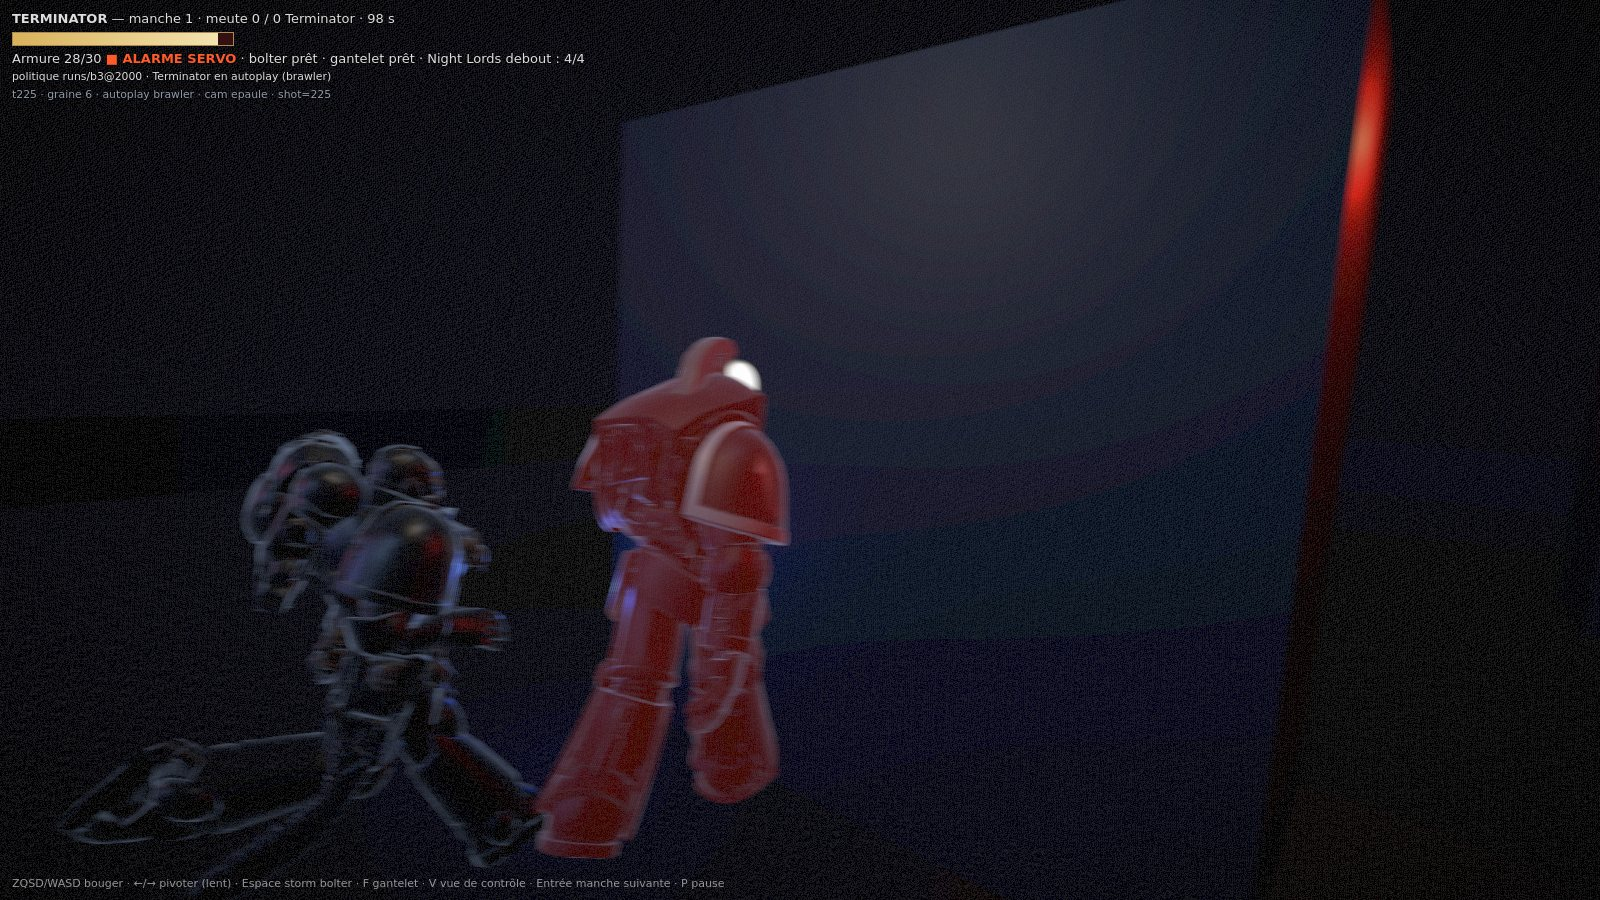
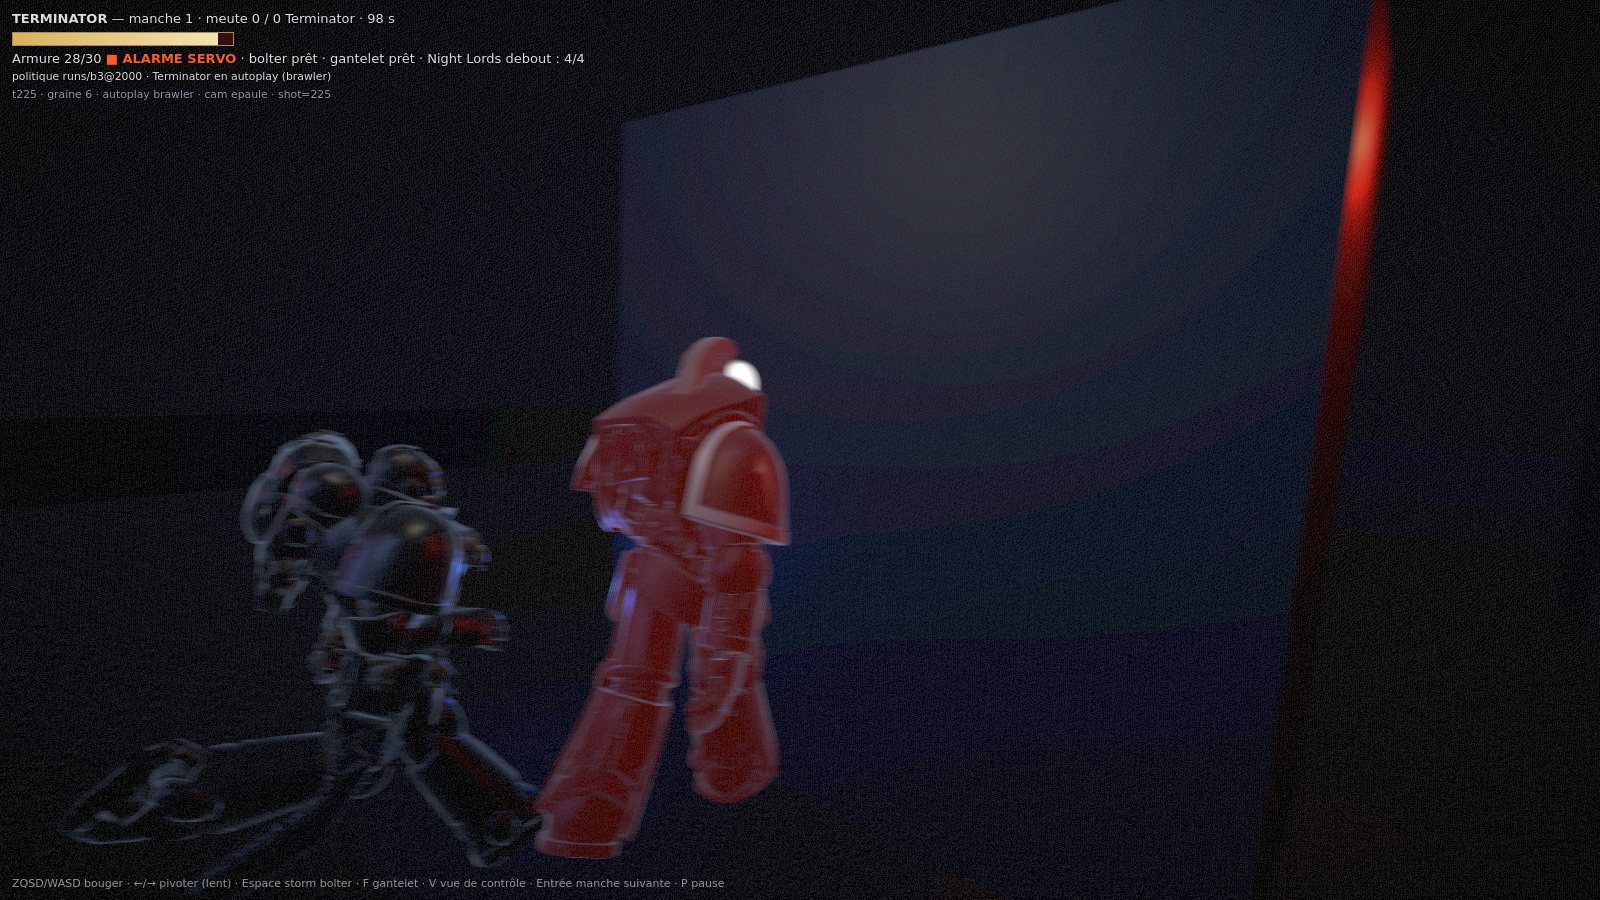
Fix : ?seed=N joue N, et le manifeste dit ce que l'ancien contrat a faussé
startRound() incrémentait la graine dès la première manche : `?seed=6`
jouait la 7. Toutes les planches étiquetées par leur URL étaient donc
décalées d'un cran. La manche 1 prend maintenant la graine de l'URL telle
quelle ; les manches suivantes avancent d'un cran, pour qu'Entrée ne
rejoue pas la même partie.

Vérifié par le monde produit, pas par le code : `?shot=225&seed=6` donne
l'image de l'ancien `?seed=5` au grain près (0,00/255, max +6,2), et
`?shot=235&seed=18` celle de l'ancien `?seed=17` (l'écart est l'alarme
de servo, arrivée entre-temps).

Les trois planches sont refaites avec l'URL qui figure en légende, et le
manifeste daté : documents antérieurs au 04/11 décalés d'un cran, images
valides, étiquette fausse.

diff --git a/shots/ev2/planche.html b/shots/ev2/planche.html
@@ -18,7 +18,7 @@
  .warn{color:#ffb020;font-weight:600}
 </style>
 <h1>Télégraphe de la griffe, branché sur l'armement de la simulation</h1>
-<p class="s">Graine <b>18</b> (<code>?seed=17</code>, <code>startRound</code> incrémente), <code>?autoplay=march</code>, <b>tick 235</b> — Night Lord n°2 à <b>2,26 m</b>, <code>armTicks = 1</code>, deux autres au contact. Capture réelle : aucune mise en scène.</p>
+<p class="s">Graine <b>18</b> (<code>?seed=18</code> — l'URL dit ce qu'elle joue depuis le correctif), <code>?autoplay=march</code>, <b>tick 235</b> — Night Lord n°2 à <b>2,26 m</b>, <code>armTicks = 1</code>, deux autres au contact. Capture réelle : aucune mise en scène.</p>
 <p class="s">Le tick, la graine et le mode sont <b>brûlés dans l'image</b> (dernière ligne du HUD) : une planche se vérifie sans sa légende.</p>
 <div class="row">
  <figure><img src="off-t235.jpg"><figcaption><b><code>?tell=0</code></b> — sans télégraphe. Les trois assaillants sont des masses noires équivalentes.</figcaption></figure>
@@ -26,8 +26,8 @@
 </div>
 <table>
  <tr><th>blocs de 8 px, image entière</th><th class="n">écart moyen</th><th class="n">blocs &gt; 2</th><th class="n">blocs &gt; 8</th><th class="n">blocs &gt; 16</th><th class="n">max</th></tr>
- <tr><td>télégraphe (ces deux images)</td><td class="n">+0,59/255</td><td class="n">14,4 %</td><td class="n k">3,0 %</td><td class="n k">0,4 %</td><td class="n">+24,6</td></tr>
- <tr><td>plancher de grain (même URL deux fois)</td><td class="n">0,00/255</td><td class="n">5,9–6,1 %</td><td class="n">0,0 %</td><td class="n">0,0 %</td><td class="n">+14,1 à +15,5</td></tr>
+ <tr><td>télégraphe (ces deux images)</td><td class="n">+0,58/255</td><td class="n">14,4 %</td><td class="n k">3,0 %</td><td class="n k">0,4 %</td><td class="n">+24,6</td></tr>
+ <tr><td>plancher de grain (même URL deux fois)</td><td class="n">0,00/255</td><td class="n">5,4 %</td><td class="n">0,0 %</td><td class="n">0,0 %</td><td class="n">+5,7 à +15,5</td></tr>
 </table>
 <p class="note">Le seuil qui compte est <b>&gt; 8</b> : le grain n'y passe jamais, sur deux répétitions. La valeur maximale, elle, ne dit rien — la queue du grain monte à +15, et un maximum isolé n'est pas une mesure.</p>
-<p class="note warn">Correction : la première version de cette planche annonçait « graine 17 ». La graine réellement jouée est 18 — <code>startRound()</code> incrémente celle de l'URL. C'est le brûlage du tick dans l'image qui l'a révélé, pas une relecture.</p>
+<p class="note warn">Correction, deux fois : cette planche annonçait « graine 17 » (faux, la graine jouée était 18), puis `?seed=18` ne jouait pas 18 non plus — `startRound()` incrémentait dès la première manche. Le contrat d'URL est corrigé : `?seed=N` joue N, et les images ci-dessus sont refaites avec l'URL qui figure en légende.</p>

diff --git a/shots/demo2/planche.html b/shots/demo2/planche.html
@@ -16,7 +16,7 @@
  code{color:#9fb0c8}
 </style>
 <h1>Mode démo <code>?demo=reveal</code> — le flash et le télégraphe sur la même image</h1>
-<p class="s"><span class="warn">MISE EN SCÈNE</span> — ce n'est pas une manche jouée, le HUD le dit dans l'image. <code>?shot=14</code>, aucun aléa : mêmes entrées, même image, pas de graine à chercher. Tick, graine et mode brûlés dans l'image.</p>
+<p class="s"><span class="warn">MISE EN SCÈNE</span> — ce n'est pas une manche jouée, le HUD le dit dans l'image. <code>?shot=14&amp;seed=1</code>, aucun aléa : mêmes entrées, même image, pas de graine à chercher. Tick, graine et mode brûlés dans l'image.</p>
 <p class="s">Le frère du flanc arme sa griffe au tick 13 (<code>armTicks = 2</code>, décidé par la simulation), la rafale part au même tick : à l'image <code>armTicks = 1</code> et le flash est à 75 % de sa course.</p>
 <div class="row">
  <figure><img src="rien.jpg"><figcaption><b>Ni flash, ni télégraphe</b> — <code>?tell=0&amp;impact=0</code>. Deux masses noires au contact, la salle est un trou.</figcaption></figure>
@@ -26,8 +26,8 @@
 </div>
 <table>
  <tr><th>blocs de 8 px, image entière</th><th class="n">écart moyen</th><th class="n">blocs &gt; 2</th><th class="n">blocs &gt; 8</th><th class="n">blocs &gt; 16</th><th class="n">max</th></tr>
- <tr><td>flash</td><td class="n">1,92/255</td><td class="n">30,5 %</td><td class="n k">7,4 %</td><td class="n k">1,2 %</td><td class="n">+70,8</td></tr>
- <tr><td>télégraphe</td><td class="n">0,63/255</td><td class="n">12,0 %</td><td class="n k">3,5 %</td><td class="n k">0,9 %</td><td class="n">+26,8</td></tr>
- <tr><td>plancher de grain (même URL deux fois)</td><td class="n">0,00/255</td><td class="n">5,9–6,1 %</td><td class="n">0,0 %</td><td class="n">0,0 %</td><td class="n">+14,1 à +15,5</td></tr>
+ <tr><td>flash</td><td class="n">1,92/255</td><td class="n">31,2 %</td><td class="n k">7,4 %</td><td class="n k">1,2 %</td><td class="n">+70,6</td></tr>
+ <tr><td>télégraphe</td><td class="n">0,63/255</td><td class="n">12,0 %</td><td class="n k">3,4 %</td><td class="n k">0,9 %</td><td class="n">+30,8</td></tr>
+ <tr><td>plancher de grain (même URL deux fois)</td><td class="n">0,00/255</td><td class="n">5,4 %</td><td class="n">0,0 %</td><td class="n">0,0 %</td><td class="n">+5,7</td></tr>
 </table>
 <p class="s" style="margin-top:9px;color:#7b8798">Le seuil qui compte est <b>&gt; 8</b> : le grain n'y passe jamais. La colonne « max » est là pour être lue à côté du grain — un maximum isolé n'est pas une mesure.</p>

diff --git a/shots/alarme/planche.html b/shots/alarme/planche.html
@@ -16,7 +16,7 @@
  .note{margin-top:12px;font-size:12px;color:#7b8798}
 </style>
 <h1>Alarme de servo — l'armure encaisse, et c'est l'armure qui bat</h1>
-<p class="s">Graine <b>6</b> (<code>?seed=5</code>), <code>?autoplay=brawler</code>, <b>tick 225</b> : premier coup porté au Terminator (<code>hit</code>, 2 dégâts, zone <b>rear</b>, armure 30 → 28). La simulation pose <code>servoAlarm = 10</code> ticks ; le rendu ne fait que mettre en forme.</p>
+<p class="s">Graine <b>6</b> (<code>?seed=6</code>), <code>?autoplay=brawler</code>, <b>tick 225</b> : premier coup porté au Terminator (<code>hit</code>, 2 dégâts, zone <b>rear</b>, armure 30 → 28). La simulation pose <code>servoAlarm = 10</code> ticks ; le rendu ne fait que mettre en forme.</p>
 <div class="row">
  <figure><img src="off-t225.jpg"><figcaption><b><code>?alarme=0</code></b> — sans alarme : l'armure reste mate, le HUD ne dit rien. Tick, graine et mode brûlés dans l'image.</figcaption></figure>
  <figure><img src="on-t225.jpg"><figcaption><b>Par défaut</b> — les plaques respirent le rouge de l'intérieur, et le HUD écrit <b style="color:#ff5a2a">■ ALARME SERVO</b>. Ni lampe collée sur le modèle, ni source de lumière de plus.</figcaption></figure>
@@ -26,4 +26,5 @@
  <tr><td>luminance du corps, écart à <code>?alarme=0</code></td><td class="n k">+5,56</td><td class="n">+1,50</td><td class="n k">+4,70</td><td class="n">+0,47</td><td class="n">+2,17</td><td class="n">−0,82</td></tr>
 </table>
 <p class="note">Un clignotement à <b>2,5 Hz</b> — période de 4 ticks. À 8 Hz, l'intensité sautait d'un tick à l'autre sans dessiner de battement : la simulation échantillonne à 10 Hz, et une fréquence plus rapide que ça ne se lit pas, elle scintille. Le rouge décroît avec l'alarme (10 ticks), donc la dernière image est presque éteinte.</p>
+<p class="note">Image entière, blocs de 8 px : +0,58/255 en moyenne, 13,2 % des blocs &gt; 2, <b>4,0 % &gt; 8</b>, 0,2 % &gt; 16. Plancher de grain mesuré à côté : 5,4 % &gt; 2, <b>0,0 % &gt; 8</b>.</p>
 <p class="note">Coût : <b>0 draw call, 0 triangle, 0 lumière</b> — on touche l'émissif du matériau de l'armure. Trois dosages essayés (0,9 / 0,22 / 0,07) : à 0,9 le Terminator devenait une masse rouge fluo et on ne lisait plus l'armure ni les Night Lords autour.</p>

diff --git a/web/main.ts b/web/main.ts
@@ -17,7 +17,11 @@ const qs = new URLSearchParams(location.search);
 // C'est un flag distinct de `?debug=1` (vue de contrôle historique, touche V), et rien de ce canal ne va au HUD.
 const CONTROL_VIEW = isControlViewEnabled(location.search);
 const autoplay = qs.get('autoplay'); const shot = Number(qs.get('shot') ?? 0);
-let debug = qs.get('debug') === '1'; let seed = Number(qs.get('seed') ?? (Date.now() % 800000) + 1);
+let debug = qs.get('debug') === '1';
+// `?seed=N` joue **N**. La manche 1 prend la graine telle quelle ; les manches suivantes avancent d'un cran,
+// pour qu'« Entrée » ne rejoue pas la même partie. Avant, `startRound()` incrémentait dès la première manche :
+// un `?seed=6` jouait donc la 7, et toutes les planches étiquetées par leur URL étaient décalées d'un cran.
+let seed = qs.get('seed') !== null ? Number(qs.get('seed')) : (Date.now() % 800000) + 1;
 let actor: ActorJSON | null = null; let policyLabel = 'meute naïve (aucune politique chargée)';
 const ROLE_COL = [0xd8d8ff, 0xff3030, 0xffa020, 0x30d0ff];
 const ROLE_CSS = ['#d8d8ff', '#ff3030', '#ffa020', '#30d0ff'];
@@ -284,7 +288,8 @@ const DEMO_SCRIPTS: Record<string, DemoScript> = {
 const DEMO_CFG = DEMO ? DEMO_SCRIPTS[DEMO] ?? null : null;
 function startRound() {
   // le build jouable garde l'armement des griffes (défaut) : il n'est plus celui des mesures b3
-  roundNo++; roundOver = false; seed = seed + 1; w = newWorld(seed); camYaw = followYaw = w.t.facing; prev = snap();
+  roundNo++; roundOver = false; if (roundNo > 1) seed += 1; // manche suivante : la graine d'après, jamais la même
+  w = newWorld(seed); camYaw = followYaw = w.t.facing; prev = snap();
   if (DEMO_CFG) { DEMO_CFG.place(w); camYaw = followYaw = w.t.facing; prev = snap(); } rec = new Recorder(autoplay ? `autoplay ${autoplay}` : 'joueur'); rng = mulberry32(seed ^ 0x9e3779b9);
   tactic = autoplay ? (POOL[autoplay] ?? UNSEEN[autoplay] ?? POOL.march)() : null;
   nlMeshes.forEach(m => { m.rotation.set(0, 0, 0); m.visible = true; });

diff --git a/web/models/MANIFESTE.md b/web/models/MANIFESTE.md
@@ -220,6 +220,17 @@ de 4 ticks), la courbe mesurée sur six ticks alterne franchement : +5,56, +1,50
 d'écart à `?alarme=0` sur la luminance du corps. Le rouge décroît avec l'alarme, donc la dernière image est
 presque éteinte — c'est le sens du signal, pas un défaut.
 
+**`?seed=N` joue N, et ça n'a pas toujours été vrai.** `startRound()` incrémentait la graine dès la première
+manche : `?seed=6` jouait la 7. Un paramètre qui ne fait pas ce qu'il dit est un piège pour celui qui n'a pas lu
+le message — donc il est corrigé dans le code, pas seulement documenté : la manche 1 prend la graine de l'URL
+telle quelle, les manches suivantes avancent d'un cran (pour qu'« Entrée » ne rejoue pas la même partie).
+
+**Conséquence sur les documents antérieurs au 4 novembre 2026** : toute capture ou planche étiquetée par son
+URL est décalée d'un cran. Les planches du télégraphe (#34, #37) annonçaient `?seed=17` pour une graine jouée de
+**18** ; la planche de l'alarme (#38) annonçait `?seed=5` pour une graine de **6**. Les images restent valides —
+seule l'étiquette d'URL était fausse — et elles ont été refaites avec l'URL corrigée. Le tick de la ligne brûlée
+dans l'image, lui, n'a jamais menti : c'est ce qui a permis de le voir.
+
 **Graine et reproductibilité.** Les captures à `?shot=N` tombent sur le tick N, mais la graine de grain
 de la passe plein écran dépend de `performance.now()` : deux captures du même tick ne sont jamais
 identiques au pixel, l'écart est le grain. Comparer avec `pix.mjs` (histogramme) ou en blocs de 8 px,

diff --git a/README.md b/README.md
@@ -46,6 +46,9 @@ cp runs/base/actor.json policies/current.json && cp runs/base/full.json policies
 node dist/server.mjs     # http://127.0.0.1:18190/  (?debug=1  ?autoplay=march|turret|brawler|backpedal|wallHugger  ?seed=  ?shot=<ticks>  ?fog=linear  ?grid=1  ?pivot=0|0.3|0.5  ?tell=0  ?cam=couloir  ?impact=0  ?demo=reveal  ?alarme=0)
 ```
 
+`?seed=N` joue **N** (les manches suivantes avancent d'un cran). Avant le 04/11/2026 la première manche
+incrémentait la graine : les captures étiquetées par leur URL avant cette date sont décalées d'un cran.
+
 `policies/` contient la politique b3 (prête pour `node dist/server.mjs`) : `current.json` est `runs/b3@2000` (2 000 mises à jour, seed 3). `src/guard.ts` met l'entraînement en pause si la machine est chargée (load, inodes, autres tests) ; `GUARD_FS` choisit le disque surveillé (par défaut `.`).
 
 ## Rejouer une mesure
